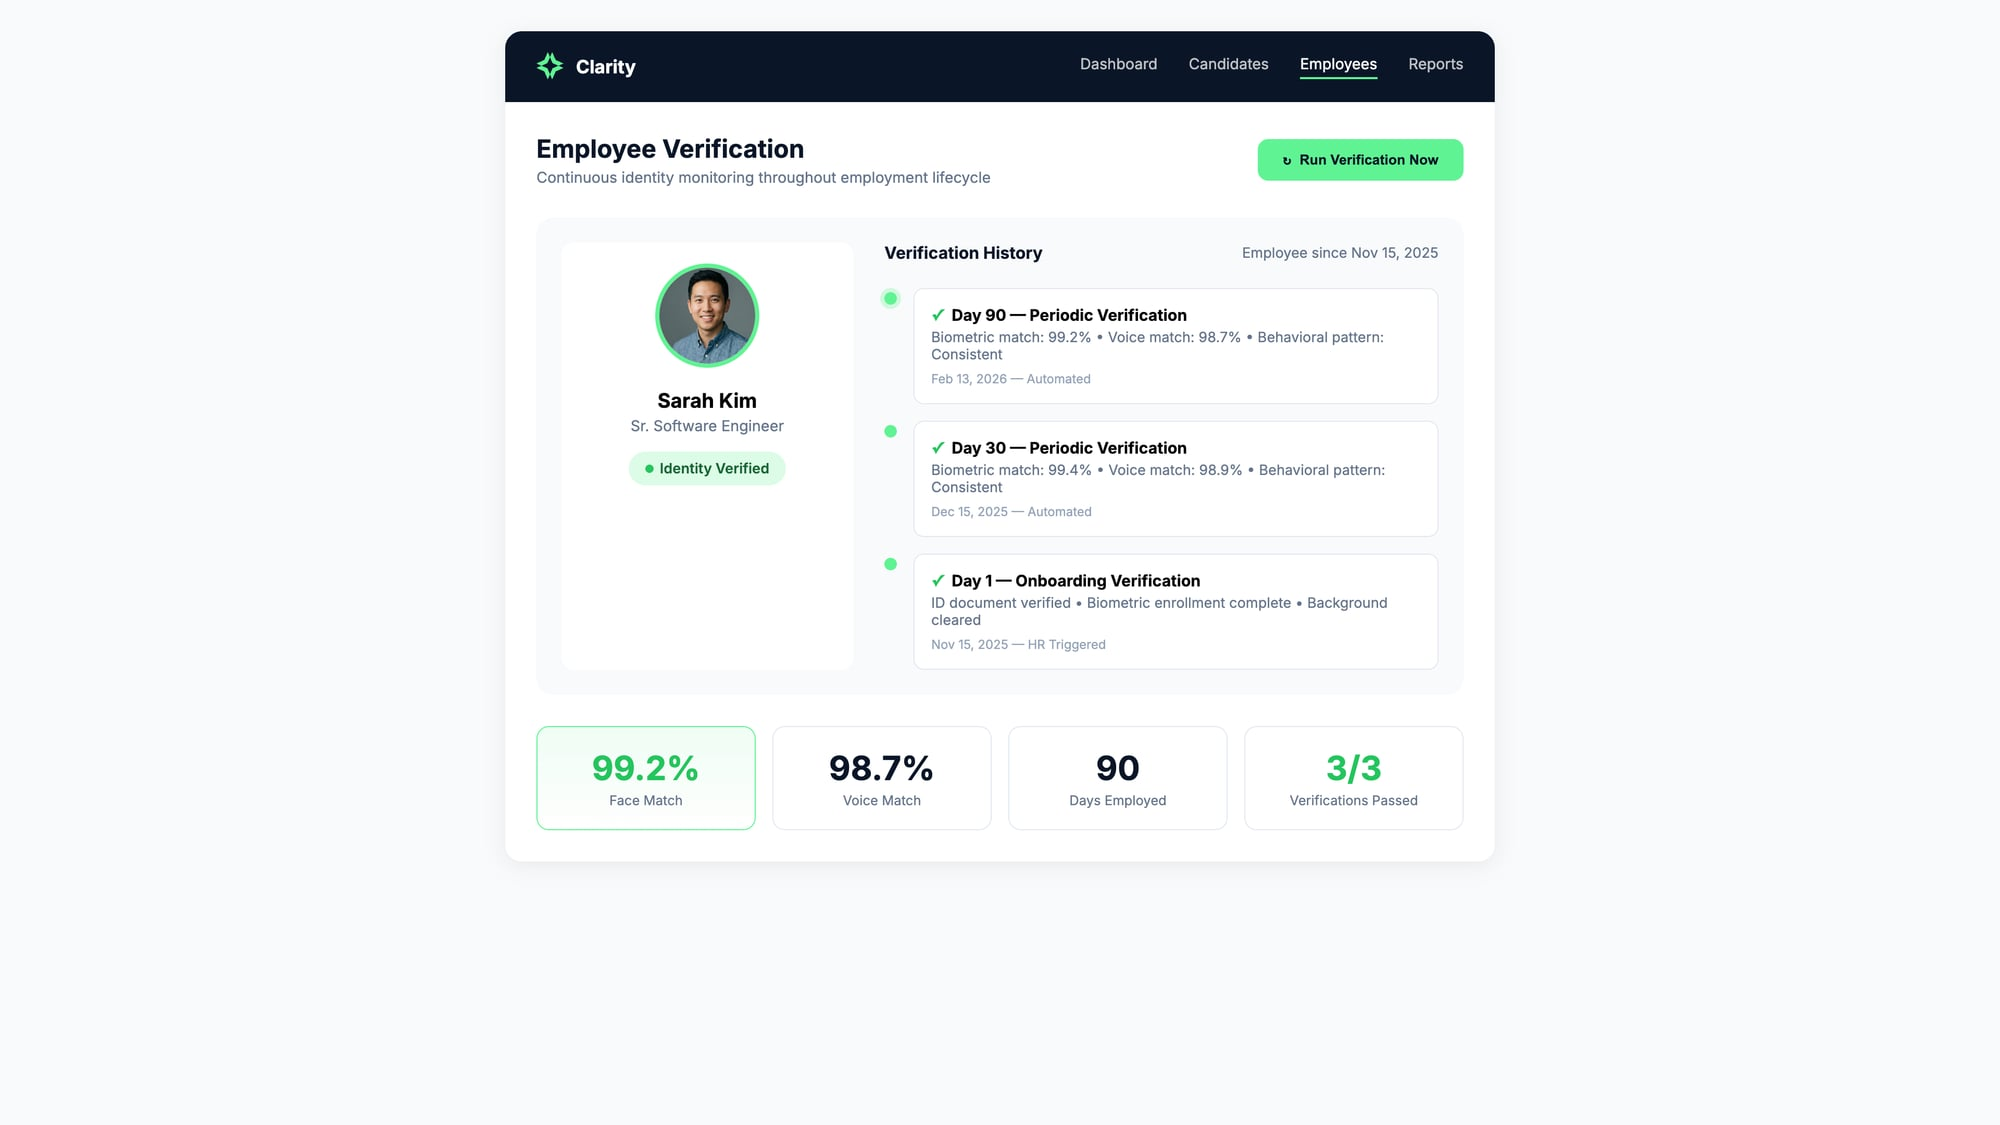
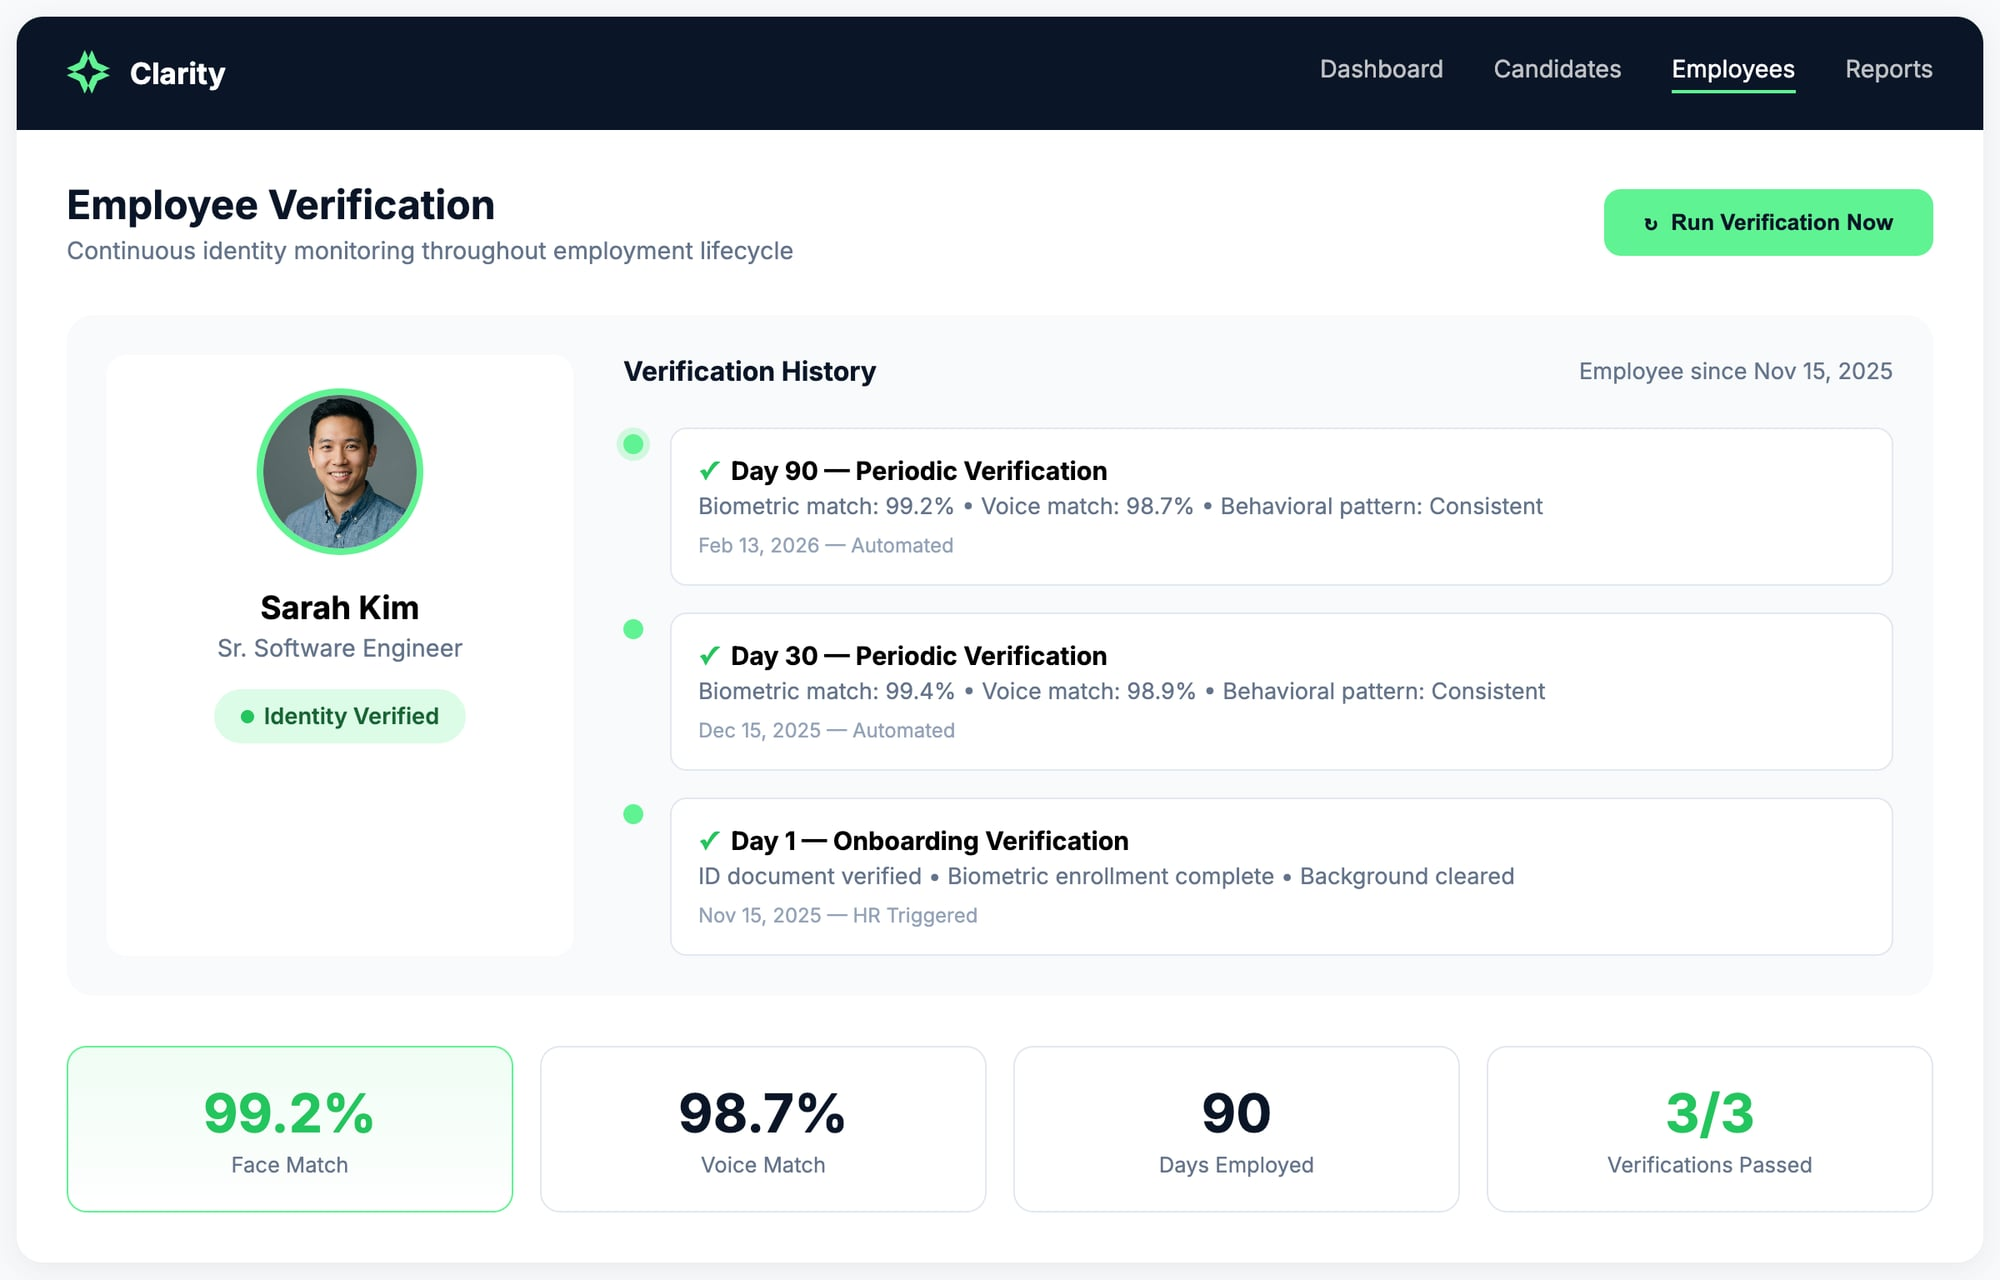
Fix product screenshots - reduce padding for better fill

diff --git a/mockup-continuous-verify.html b/mockup-continuous-verify.html
@@ -10,15 +10,15 @@
         body { 
             font-family: 'Inter', sans-serif; 
             background: #f8fafc; 
-            padding: 30px;
+            padding: 10px;
         }
         .dashboard {
             background: white;
             border-radius: 16px;
             box-shadow: 0 4px 20px rgba(0,0,0,0.08);
             overflow: hidden;
-            max-width: 950px;
-            margin: 0 auto;
+            max-width: 100%;
+            margin: 0;
         }
         .header {
             background: #0a1628;

diff --git a/mockup-pre-interview.html b/mockup-pre-interview.html
@@ -10,15 +10,15 @@
         body { 
             font-family: 'Inter', sans-serif; 
             background: #f8fafc; 
-            padding: 30px;
+            padding: 10px;
         }
         .dashboard {
             background: white;
             border-radius: 16px;
             box-shadow: 0 4px 20px rgba(0,0,0,0.08);
             overflow: hidden;
-            max-width: 900px;
-            margin: 0 auto;
+            max-width: 100%;
+            margin: 0;
         }
         .header {
             background: #0a1628;

diff --git a/mockup-deepfake-alert.html b/mockup-deepfake-alert.html
@@ -10,15 +10,15 @@
         body { 
             font-family: 'Inter', sans-serif; 
             background: #0a1628; 
-            padding: 30px;
+            padding: 10px;
             min-height: 100vh;
         }
         .dashboard {
             background: #111827;
             border-radius: 16px;
             overflow: hidden;
-            max-width: 1000px;
-            margin: 0 auto;
+            max-width: 100%;
+            margin: 0;
             border: 1px solid #1F2937;
         }
         .header {
